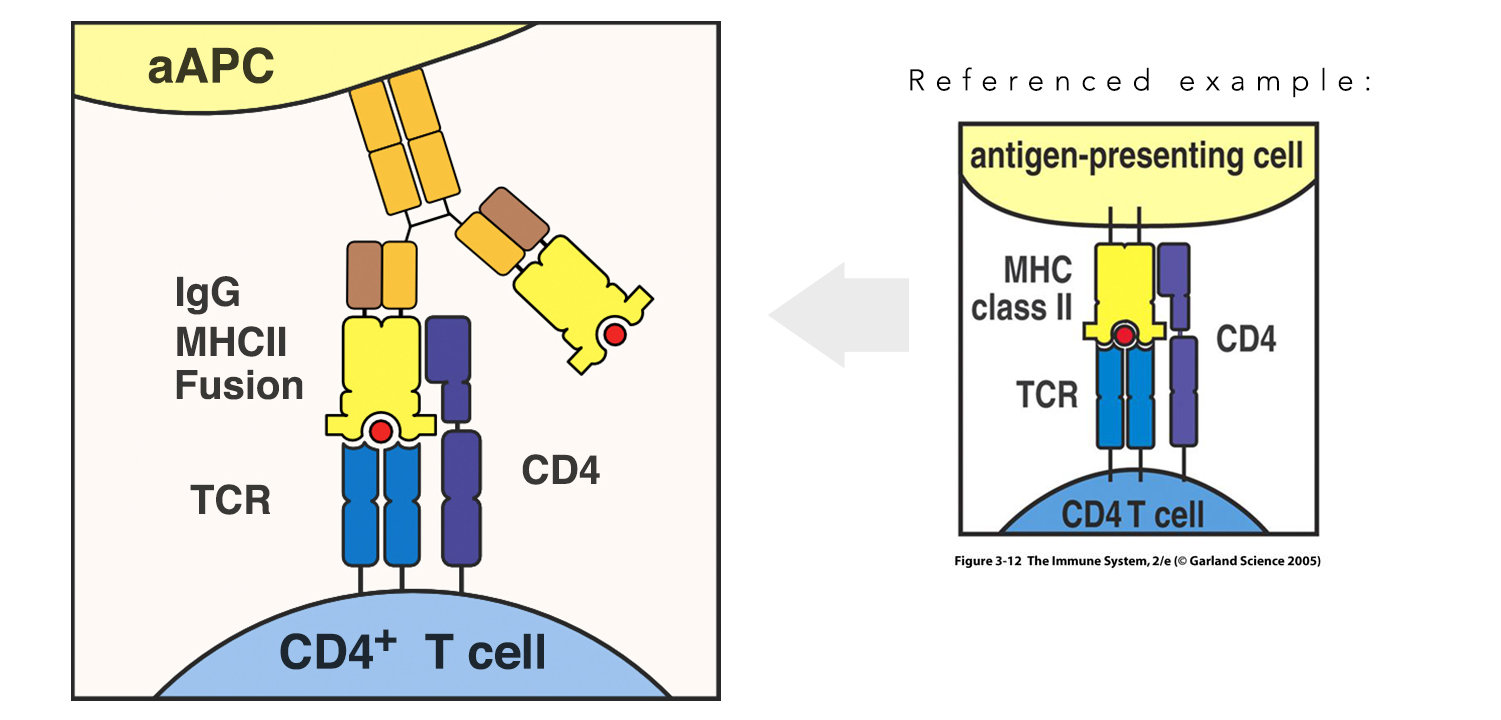
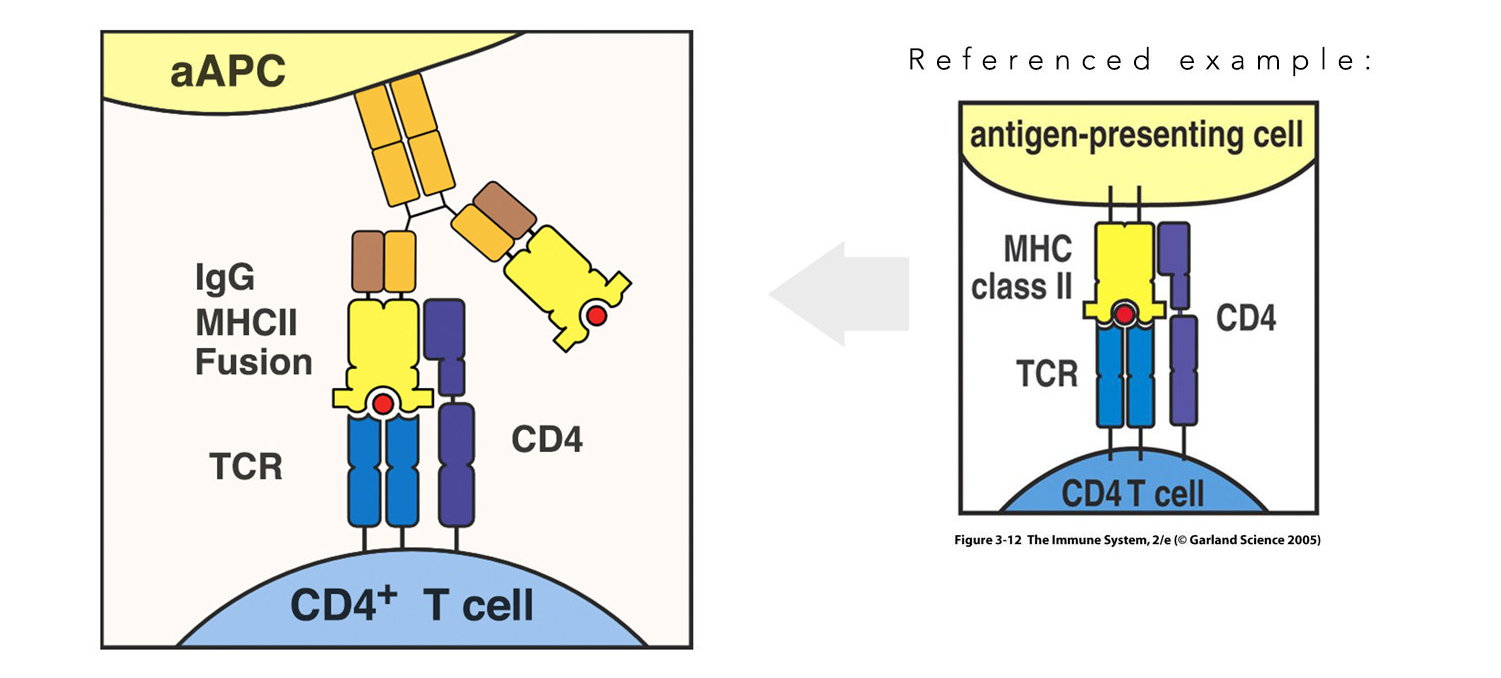
image sizing and woodwork gallery update

diff --git a/gradscience.html b/gradscience.html
@@ -84,11 +84,11 @@
 
 							<br><p>On the left we see an example of an MHC II/antibody fusion protein engaging and activating a T cell. On the right we see the conventional diagram for T cell engagement by MHC II (Garland Science 2005), which I referenced in order to model the fusion protein according to the client’s specifications. Scientific language is a highly developed form of dialect intended to communicate biological elements to other scientists by using agreed upon symbols and shapes that may seem arbitrary to a layman but are highly recognizable to a scientist. For instance, notice the shape and number of domains on the MHC II vs the antibody vs the TCR surface receptor—these graphic elements communicate to a scientist the identity of these molecules even in absence of labeling.</p>
 
-              <img src="images/matt_images/Design/mm_graftrejection.jpg" class= "center" alt="Graft Rejection" width="auto">
+              <img src="images/matt_images/Design/mm_graftrejection.jpg" class= "center gradscience" alt="Graft Rejection" width="auto">
 
 							<br><p>Here we see a diagram explaining the mechanism behind graft rejection, mediated by shape incompatibility between an MHCI and a TCR. On the left we see the lock and key interaction between MHC I and TCR, resulting in recognition of “self” cells; while on the right we see recognition of a cell as foreign due to biophysical incompatibility between these two molecules. To achieve visual separation between the two cell types, I chose colors around the yellow spectrum for molecules belonging to the top cell and colors around the blue spectrum for molecules belonging to the T cell.</p>
 
-              <img src="images/matt_images/Design/mm_mesh.jpg" class= "center" alt="Nanoparticle Mesh" width="auto">
+              <img src="images/matt_images/Design/mm_mesh.jpg" class= "center quantik" alt="Nanoparticle Mesh" width="auto">
 
 							<br><p>This diagram portrays a tumor targeting drug delivery vehicle carrying a bispecific antibody therapeutic. The drug carrier is coated with PEG which is sensitive to the acidic tumor microenvironment, resulting in the degradation of PEG and release of drug selectively in the tumor. It was important to convey the drug release mechanism clearly without overwhelming the image with unnecessary detail. In addition, the accuracy when representing elements in this image was important to the client. For instance, where a nanoparticle would typically be depicted as a circle—the structure of PLGA nanoparticles is actually mesh. Notice the blue linker between the CL domain and scFv, this linker accurately represents the manner in which the antibody domains were linked.</p>
 
@@ -96,11 +96,11 @@
 
 							<p>Graphic depicting two different formats for a bispecific antibody.</p><br>
 
-              <img src="images/matt_images/Design/mm_hounds.jpg" class= "center" alt="Biomotors" width="auto">
+              <img src="images/matt_images/Design/mm_hounds.jpg" class= "center gradscience" alt="Biomotors" width="auto">
 
 							<br><p>For this project, sperm cells were engineered as drug carrying homing mechanisms that can track and attack cancer cells. I wanted to leverage my skills as an illustrator to depict these kamikaze sperm in a humorous way. My client used the illustration on the left as the title slide for the presentation, the cancer tracking “hound sperms” successfully disarmed the audience. The diagram to the right depicts the two fusion receptors that mediate the interaction between the engineered sperm cell and the cancer cell. Again, the shapes and color choice were very purposeful, conveying both accuracy and visual organization. For instance, CCR6 is a seven-pass transmembrane receptor and as such should be graphically depicted as having seven membrane domains. Due to my client’s creativity and partially due to the success of my graphics, the presentation was voted first place out of dozens of student presentations.</p>
 
-              <img src="images/matt_images/Design/mm_pVectors2.jpg" class= "center" alt="Fusion Proteins" width="auto">
+              <img src="images/matt_images/Design/mm_pVectors2.jpg" class= "center gradscience" alt="Fusion Proteins" width="auto">
 
 							<br><p>Here we see vector assets for my client’s thesis project, including a selection of fusion protein formats. Since these proteins are synthetic and therefore graphically non-referenceable, the client needed my help to communicate protein design decisions and to showcase the variety of different formats she engineered. (a-f) are MHC fusion proteins, with MHCs in warm colors and dimerization domains in cool colors. (g-j) represent different types of T cells, each phenotype is coupled with its associated transcription factor. (k-n) depict nanoparticles mounted with different antibodies.</p>
 

diff --git a/pyrography.html b/pyrography.html
@@ -80,9 +80,9 @@
 										<a href="#" class="image fit thumb">
 											<img src="images/matt_images/Pyrography/closeEye.JPG" alt="" data-toggle="modal" data-target=".modal-profile-lg"/></a>
 									</article>
-									<article class="item" title="Intention">
+									<article class="item" title="Catcatoo">
 										<a href="#" class="image fit thumb">
-											<img src="images/matt_images/Pyrography/eyeInHand.JPG" alt="" data-toggle="modal" data-target=".modal-profile-lg"/></a>
+											<img src="images/matt_images/Pyrography/catcatoo.JPG" alt="" data-toggle="modal" data-target=".modal-profile-lg"/></a>
 									</article>
 									<article class="item" title="Life and Death">
 										<a href="#" class="image fit thumb">
@@ -126,9 +126,9 @@
 										<a href="#" class="image fit thumb">
 											<img src="images/matt_images/Pyrography/iris.JPG" alt="" data-toggle="modal" data-target=".modal-profile-lg"/></a>
 									</article>
-									<article class="item" title="Iris 2">
+									<article class="item" title="Intention">
 										<a href="#" class="image fit thumb">
-											<img src="images/matt_images/Pyrography/blackIris.JPG" alt="" data-toggle="modal" data-target=".modal-profile-lg"/></a>
+											<img src="images/matt_images/Pyrography/eyeInHand.JPG" alt="" data-toggle="modal" data-target=".modal-profile-lg"/></a>
 									</article>
 								</div>
 

diff --git a/argubotacademy.html b/argubotacademy.html
@@ -77,7 +77,7 @@
               <p><b>Client:</b> Glasslab Games - Redwood City, CA <br> <b>Project:</b> Mars Generation One: Argubot Academy <br> <b>Role:</b> Environment Design, Illustration <br> <b>Tools</b>: Pencil & Paper, Illustrator</p>
 
 							<div class="row">
-                <img src="images/matt_images/Design/argubotMockup2.jpg" class= "center" alt="Robot Workshop Vector Art" width="auto">
+                <img src="images/matt_images/Design/argubotMockup3.jpg" class= "center mars" alt="Robot Workshop Vector Art" width="auto">
               </div>
 
 								<br><p>Mars Generation One: Argubot Academy is a tablet-based educational game targeted at middle-school aged kids developed by Glasslab Games. In the game, players build and fight robots (known as argubots) against other robot opponents on a sci-fi base backdrop set on Mars. Players are taught to equip their argubots with logical, well-reasoned arguments to use as "attacks" in a battle of wits with their opponents. I worked as an environment artist on the project. As part of this capacity, I was responsible for the conception and execution of Argubot Academy backgrounds in addition to the delivery of several robot designs.</p>

diff --git a/assets/css/main.css b/assets/css/main.css
@@ -135,6 +135,21 @@
 		margin-left: 12.5%;
 	}
 
+	.gradscience {
+		width: 85%;
+		margin-left: 7.5%;
+	}
+
+	.gradscience2 {
+		width: 75%;
+		margin-left: 12.5%;
+	}
+
+	.mars {
+		width: 85%;
+		margin-left: 7.5%;
+	}
+
 
 	@media screen and (min-width: 961px) and (max-width: 1880px) {
 
